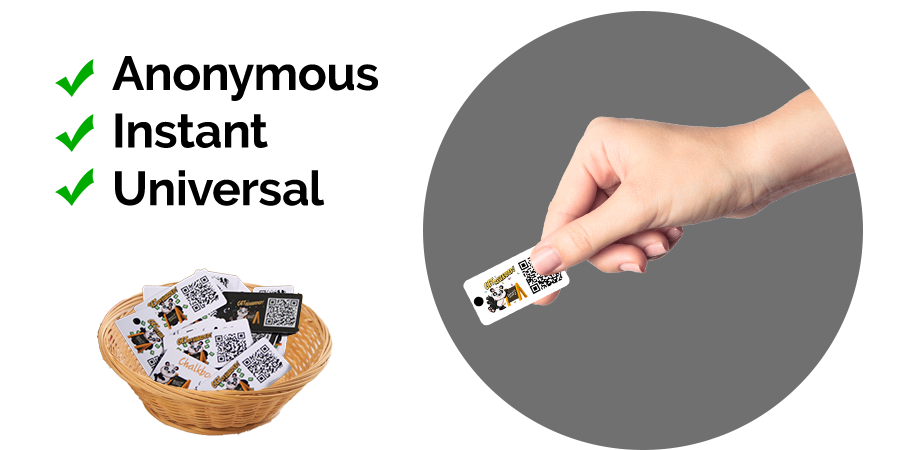
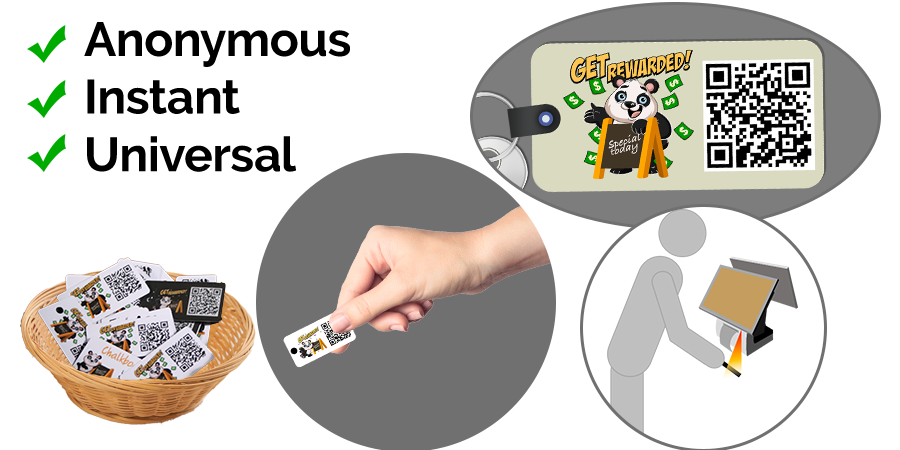
update

diff --git a/app/app_sitelette/sitefiles/pages/content_index.html b/app/app_sitelette/sitefiles/pages/content_index.html
@@ -150,9 +150,9 @@
       </div>
     </div>
   
-  <!--END Signage,  PICTURE ON LEFT -->
+  <!--END selfservice,  PICTURE ON LEFT -->
   
-  <!--Signage hardware, PICTURE ON RIGHT -->
+  <!--selfservice hardware, PICTURE ON RIGHT -->
   
     <div class="row row-striped vertically-centered-divs">
       <div class="col-xs-12 col-sm-12 col-md-6 col-lg-6 ">
@@ -212,6 +212,283 @@
   </div>
   <!-- END Self Service -->
 </section>
+
+
+
+
+
+
+<!-- BEGIN  Point of Sale section -->
+<section id="pointofsale" class="white_background">
+  <div class="container-fluid  ">
+    <div class="row   text-center margin-top-80"   >
+      <div class="col-lg-offset-2  col-lg-8 col-md-offset-2 col-md-8  col-sm-offset-2 col-sm-8  col-xs-12    ">
+        <img src="sitefiles/images/platform/pointofsale.png" class="img-responsive center-block" />
+        <br>
+        <H1  class="extra-space"> 
+          Point of Sale - with large customer screen
+        </H1>
+        <h2> A dual screen POS let you promote to the customer during checkout </h2>
+      </div>
+    </div>
+   
+  <!--Point of Sale PICTURE ON LEFT --> 
+   
+    <div class="row row-striped vertically-centered-divs">
+      <div class="col-xs-12 col-sm-12  col-md-6 col-lg-6 ">
+        <img src="sitefiles/images/landing/ws_dualScreenPOS.png" class="  img-responsive  " />
+      </div>
+      <div class="col-xs-12 col-sm-12 col-md-6 col-lg-6 ">
+        <div class="paragraph_heading text-center" style="padding-top:40px;">
+          The Customer Screen
+        </div>
+        <div class="paragraph_text" style="padding-top:30px; padding-bottom:40px; text-align:left;">
+          <ul>
+            <li>
+             Turn idle time at checkout to promotion time
+            </li>
+            <li>
+            The customer screen has an embedded signage app 
+            </li>
+            <li>
+            Customer can touch and explore promotions on the front screen  
+            </li>
+          </ul>
+        </div>
+      </div>
+    </div>
+  
+  <!--END Point of Sale,  PICTURE ON LEFT -->
+  
+  <!--Point of Sale hardware, PICTURE ON RIGHT -->
+  
+    <div class="row row-striped vertically-centered-divs">
+      <div class="col-xs-12 col-sm-12 col-md-6 col-lg-6 ">
+        <div class="paragraph_heading text-center" style="padding-top:40px;">
+          Universal Keytags
+        </div>
+        <div class="paragraph_text" style="padding-top:30px; padding-bottom:40px; text-align:left;">
+          <ul>
+            <li>
+             Free, univerals key tags are provided with your point of sale
+            </li>
+            <li>
+             Customer can pick and start using a keytag, right away
+            </li>
+            <li>
+             Now you can your own loyalty program with out paying any 3rd party
+            </li>
+          </ul>
+        </div>
+      </div>
+      <div class="col-xs-12 col-sm-12  col-md-6 col-lg-6 ">
+        <img src="sitefiles/images/landing/ws_keytag.png" class=" img-responsive  " />
+      </div>
+    </div>
+   
+    <div class="row   margin-top-80 text-center " >
+      <div class="col-xs-12 col-sm-12 col-md-12 col-lg-12 ">
+        <div class="text-center">
+          <h2>
+            Harness the power of the customer facings screen, and universal key tags to increase your sales and profit
+          </h2>
+          <h3>
+            Our starter package is designed with everything you need to get started right away. 
+          </h3>
+        </div>
+      </div>
+    </div>
+   
+    <div class="row   margin-top-20 vertically-centered-divs" >
+      <div class="col-md-offset-2 col-md-4 col-lg-offset-2  col-lg-4 col-sm-12 col-xs-12 ">
+        <div class="text-center">
+          <h3>
+            To learn more about our starter package for Point of Sale, click on the icon
+          </h3>
+        </div>
+      </div>
+      <div class="col-md-2 col-lg-2 col-sm-12 col-xs-12 ">
+        <div class="text-center">
+          <a href="sitefiles/flyer/pointofsale/FlyerStarterPackage-min.jpg"   target="blank"><img src="sitefiles/flyer/pointofsale/FlyerStarterPackage-thumb.jpg" class="flyer-thumbnail" alt="POS Starter package"></a>   
+        </div>
+      </div>
+      <div class="col-md-2 col-lg-2 col-sm-12 col-xs-12 text-center  margin-top-20 ">
+        <a class="btn btn-primary btn-request-a-demo page-scroll p-r-30 p-r-15" href=<?php echoActiveClassIfRequestMatches("index", "contact") ?>>Request a demo</a>
+        <!--  <a href="compare">Compare</a> -->
+      </div>
+    </div>
+  </div>
+  <!-- END Point of Sale -->
+</section>
+
+
+
+
+
+
+
+
+
+
+
+
+
+
+
+
+<!-- BEGIN  Mobile Ordering section -->
+<section id="mobileordering" class="white_background">
+  <div class="container-fluid  ">
+    <div class="row   text-center margin-top-80"   >
+      <div class="col-lg-offset-2  col-lg-8 col-md-offset-2 col-md-8  col-sm-offset-2 col-sm-8  col-xs-12    ">
+        <img src="sitefiles/images/platform/mobileordering.png" class="img-responsive center-block" />
+        <br>
+        <H1  class="extra-space"> 
+          QR Code Mobile Ordering - Save on fees and comissions
+        </H1>
+        <h2> Let your customers get your QR code from receipts, labels, business cards  </h2>
+      </div>
+    </div>
+   
+  <!--Mobile Ordering PICTURE ON LEFT --> 
+   
+    <div class="row row-striped vertically-centered-divs">
+      <div class="col-xs-12 col-sm-12  col-md-6 col-lg-6 ">
+        <img src="sitefiles/images/landing/ws_mobileordering.png" class="  img-responsive  " />
+      </div>
+      <div class="col-xs-12 col-sm-12 col-md-6 col-lg-6 ">
+        <div class="paragraph_heading text-center" style="padding-top:40px;">
+          Give customers your code
+        </div>
+        <div class="paragraph_text" style="padding-top:30px; padding-bottom:40px; text-align:left;">
+          <ul>
+            <li>
+             Put your code on a take-out package label
+            </li>
+            <li>
+             Print your code on the bottom of every receipt
+            </li>
+            <li>
+             Share your business card with your QR code 
+            </li>
+          </ul>
+        </div>
+      </div>
+    </div>
+  
+  <!--END Mobile Ordering  PICTURE ON LEFT -->
+  
+  <!--Point of Sale hardware, PICTURE ON RIGHT -->
+  
+    <div class="row row-striped vertically-centered-divs">
+      <div class="col-xs-12 col-sm-12 col-md-6 col-lg-6 ">
+        <div class="paragraph_heading text-center" style="padding-top:40px;">
+          Save on Fees
+        </div>
+        <div class="paragraph_text" style="padding-top:30px; padding-bottom:40px; text-align:left;">
+          <ul>
+            <li>
+             Many of your customers want to order directly from you
+            </li>
+            <li>
+             But they can't unless you give them your mobile ordering code
+            </li>
+            <li>
+             Customer can pre-pay on the mobile or pay during pick up 
+            </li>
+          </ul>
+        </div>
+      </div>
+      <div class="col-xs-12 col-sm-12  col-md-6 col-lg-6 ">
+        <img src="sitefiles/images/landing/ws_mobileordering2.png" class=" img-responsive  " />
+      </div>
+    </div>
+   
+    <div class="row   margin-top-80 text-center " >
+      <div class="col-xs-12 col-sm-12 col-md-12 col-lg-12 ">
+        <div class="text-center">
+          <h2>
+            Get QR code ordering for your  business and keep everything your earn.
+          </h2>
+          <h3>
+            Our starter package is designed with everything you need to get started right away. 
+          </h3>
+        </div>
+      </div>
+    </div>
+   
+    <div class="row   margin-top-20 vertically-centered-divs" >
+      <div class="col-md-offset-2 col-md-4 col-lg-offset-2  col-lg-4 col-sm-12 col-xs-12 ">
+        <div class="text-center">
+          <h3>
+            To learn more about our starter package for Mobile Ordering, click on the icon
+          </h3>
+        </div>
+      </div>
+      <div class="col-md-2 col-lg-2 col-sm-12 col-xs-12 ">
+        <div class="text-center">
+          <a href="sitefiles/flyer/mobileordering/FlyerStarterPackage-min.jpg"   target="blank"><img src="sitefiles/flyer/mobileordering/FlyerStarterPackage-thumb.jpg" class="flyer-thumbnail" alt="POS Starter package"></a>   
+        </div>
+      </div>
+      <div class="col-md-2 col-lg-2 col-sm-12 col-xs-12 text-center  margin-top-20 ">
+        <a class="btn btn-primary btn-request-a-demo page-scroll p-r-30 p-r-15" href=<?php echoActiveClassIfRequestMatches("index", "contact") ?>>Request a demo</a>
+        <!--  <a href="compare">Compare</a> -->
+      </div>
+    </div>
+  </div>
+  <!-- END Mobile Ordering -->
+</section>
+
+
+
+
+
+
+
+
+
+
+
+
+
+
+
+
+
+
+
+
+
+
+
+
+
+
+
+
+
+
+
+
+
+
+
+
+
+
+
+
+
+
+
+
+
+
+
+
+
+
+
 <!-- END FEATURE BLOCK -->
  
 <section>
